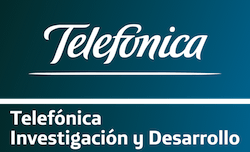
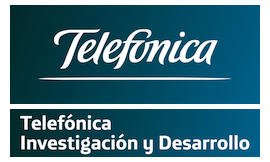
including news item on early bird deadline (plus some further adjustments on the sponsors page)

diff --git a/web/include/news.php b/web/include/news.php
@@ -1,4 +1,5 @@
 <ul data-role="listview" data-inset="true" data-theme="a" data-content-theme="a" class="datetbl">
+  <?php add_dateitem("July 12, 2016", "Early bird <a href=\"https://www.regonline.com/acmsigcomm2016\" rel=\"external\">registration</a> deadline approaching (July 14th)!") ?>
   <?php add_dateitem("July 6, 2016", "<a href=\"n2women-award.php\">N2Women Travel Grant</a> deadline extended to July 12th") ?>
   <?php add_dateitem("July 5, 2016", "The SIGCOMM 2016 <a data-ajax=\"false\" href=\"socialevents.php#student_dinner\">Student Dinner</a> will take place at Ataliba Churrascarias Florian&oacute;polis on Wednesday, 24th. There will be a special selection of grilled and roasted beef (&quot;rod&iacute;zio&quot; style &mdash; all you can eat, round-robin steak serving), plus vegetarian dishes, seafood, sushi, salads, and desserts!") ?>
   <?php add_dateitem("June 29, 2016", "The preliminary program of <a href=\"netpl.php\">NetPL</a> workshop is online") ?>

diff --git a/web/supporters.php b/web/supporters.php
@@ -37,7 +37,7 @@
 <div class="sponsors">
 	<a href="//www.hp.com/"><img src="images/sponsors/hp.png" alt="Hewlett-Packard" style="width: 80px;"/></a>
 	<a href="//www.netapp.com/"><img src="images/sponsors/netapp.jpeg" alt="NetApp" style="width: 200px;"/></a><br/>
-	<a href="//www.tid.es/"><img src="images/sponsors/telefonica.png" alt="Telef&oacute;nica" style="width: 120px;"/></a>
+	<a href="//www.tid.es/"><img src="images/sponsors/telefonica.png" alt="Telef&oacute;nica" style="width: 130px;"/></a>
 	<a href="//www.vmware.com/"><img src="images/sponsors/vmware.jpg" alt="VMWare" style="width: 180px;"/></a>
 	<a href="//www.comcast.com/"><img src="images/sponsors/comcast.jpg" alt="Comcast" style="width: 180px;"/></a>
 </div>
